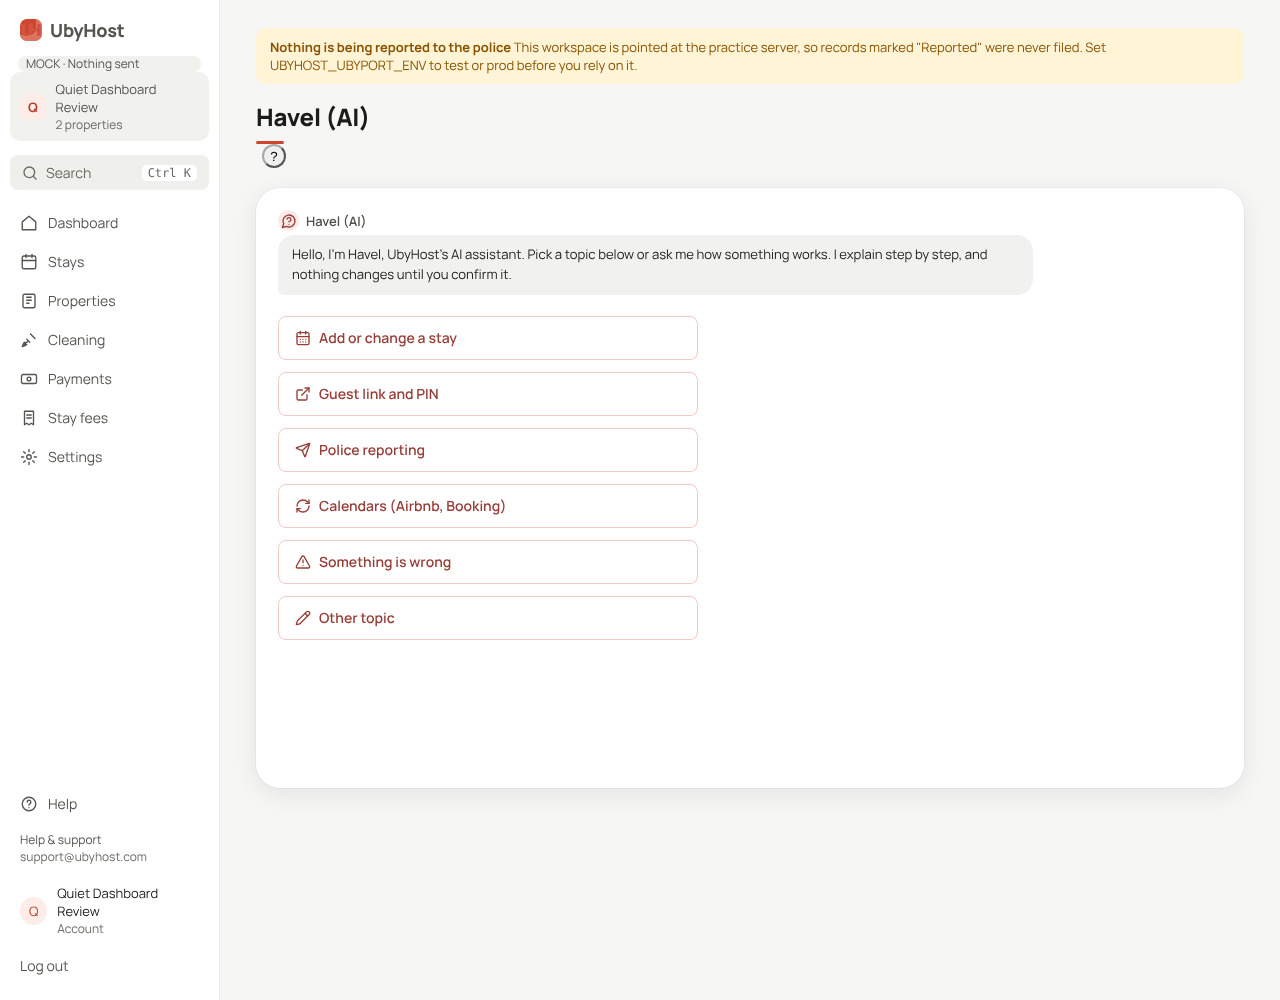
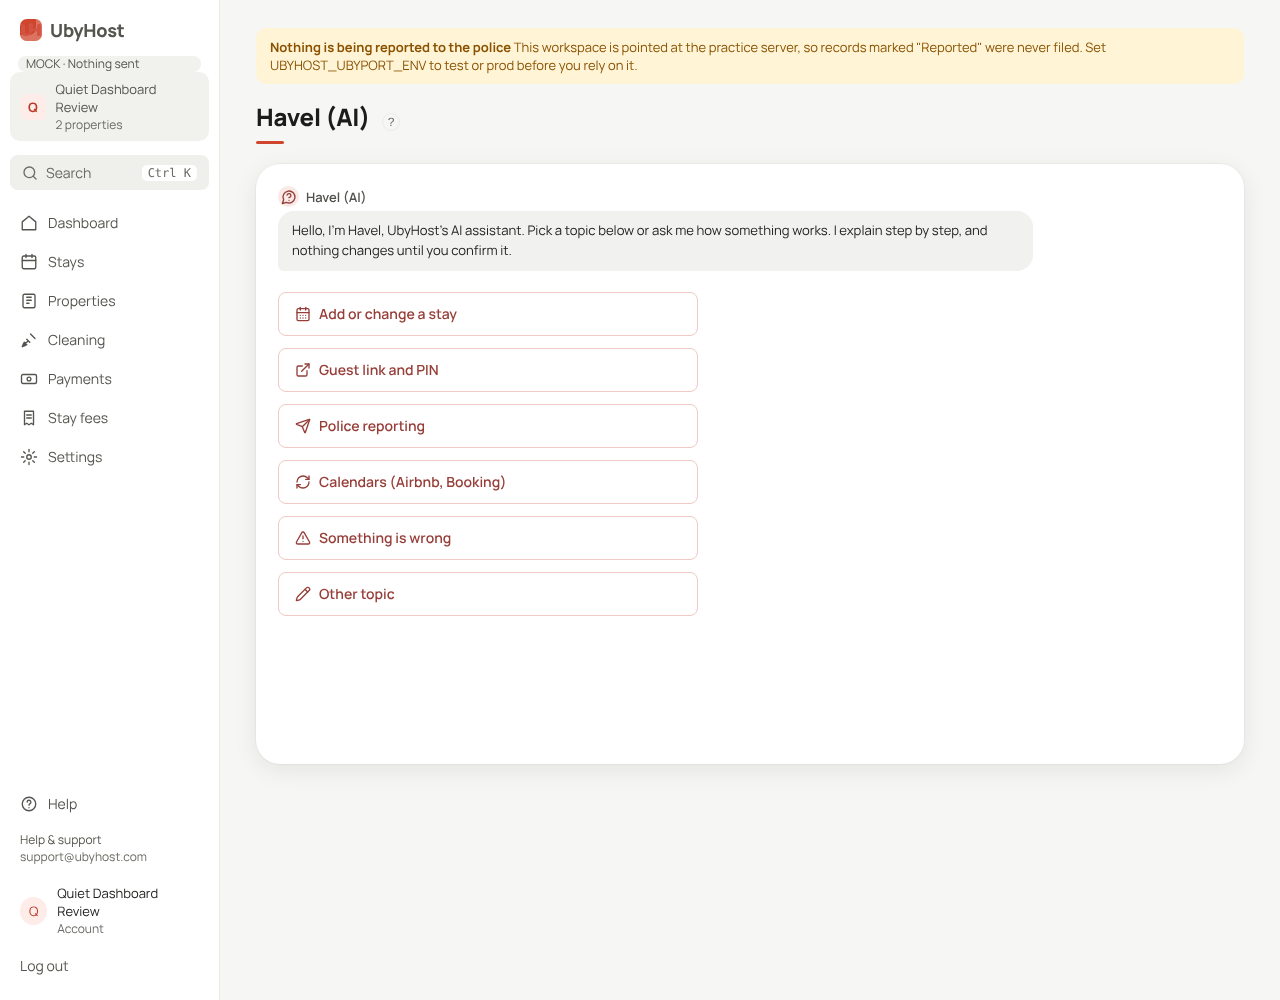
0829 guide.js via onPage and base.html; 0814 part 1 small help tip (WIP)
Claude-Session: https://claude.ai/code/session_01Cjmb7NdDTpZGab5h3XmCsd

Changed region(s): [[0.2188, 0.31, 0.4062, 0.62], [0.2188, 0.186, 0.75, 0.279]]

diff --git a/App/app/static/app2.css b/App/app/static/app2.css
@@ -1248,7 +1248,7 @@ body.v2 .prop-new .required-legend{font-size:13px;color:var(--ink3);margin:0 0 1
 body.v2 .prop-new .property-create-card,body.v2 .prop-new .property-create-next{background:var(--s);border:1px solid var(--line);border-radius:12px;padding:20px;margin:0 0 14px;box-shadow:none}
 body.v2 .prop-new .property-create-head{display:flex;align-items:center;gap:10px;margin:0 0 16px;color:var(--ink2)}
 body.v2 .prop-new .property-create-head h2{margin:0;font-size:16px;font-weight:700;color:var(--ink)}
-body.v2 .prop-new .heading-with-tip{display:flex;align-items:center;gap:8px}
+body.v2 .prop-new .heading-with-tip{display:flex;align-items:center;gap:6px}
 body.v2 .prop-new .property-create-operator-row{display:block}
 body.v2 .prop-new .property-create-manage{display:inline-block;margin-top:8px;font-size:13px}
 body.v2 .prop-new .grid{display:grid;gap:12px;grid-template-columns:minmax(0,1fr)}
@@ -1415,10 +1415,14 @@ body.v2 .page-skeleton:not([hidden]) ~ *, body.v2 main[aria-busy="true"] > .ui-p
 }
 @media (prefers-reduced-motion: reduce) { body.v2 .ui-bone { animation: none; } }
 /* 0812 help tip (v2) */
-body.v2 .help-tip{position:relative;display:inline-flex;align-items:center;vertical-align:middle;margin-left:6px}
-body.v2 .help-tip-btn{min-width:24px;min-height:24px;padding:0;border-radius:50%;display:inline-flex;align-items:center;justify-content:center;box-sizing:border-box}
-@media (max-width:1023px){body.v2 .help-tip-btn{min-width:44px;min-height:44px}}
-body.v2 .heading-with-tip,body.v2 .havel-name-tip{display:flex;align-items:center;gap:6px}
+body.v2 .help-tip{position:relative;display:inline-flex;flex:none;align-items:center;vertical-align:middle;margin-left:6px}
+body.v2 .help-tip-btn{position:relative;isolation:isolate;width:24px;height:24px;min-width:24px;min-height:24px;margin:-3px;padding:0;border:0;border-radius:50%;background:transparent;color:var(--ink3);font-size:12px;line-height:1;display:inline-flex;align-items:center;justify-content:center;box-sizing:border-box}
+body.v2 .help-tip-btn::after{content:"";position:absolute;z-index:-1;left:50%;top:50%;width:18px;height:18px;transform:translate(-50%,-50%);border:1px solid var(--line);border-radius:50%;box-sizing:border-box}
+@media (max-width:1023px){body.v2 .help-tip-btn{width:44px;height:44px;min-width:44px;min-height:44px;margin:-13px}}
+body.v2 .heading-with-tip,body.v2 .prop-name-tip,body.v2 .havel-name-tip{display:flex;flex-wrap:nowrap;align-items:center;gap:6px}
+body.v2 .heading-with-tip>:not(.help-tip),body.v2 .prop-name-tip>:not(.help-tip),body.v2 .havel-name-tip>:not(.help-tip){min-width:0}
+body.v2 .head>div:has(>.havel-name-tip){display:flex;flex-wrap:nowrap;align-items:center;gap:6px}
+body.v2 .head>div:has(>.havel-name-tip)>h1{min-width:0;margin:0}
 body.v2 .help-tip-body{display:none}
 body.v2 .help-tip.is-open>.help-tip-body,body.v2 .help-tip:not([data-js]):focus-within>.help-tip-body{display:block;position:absolute;z-index:70;left:0;top:100%;margin:6px 0 0;box-sizing:border-box;width:min(320px,calc(100vw - 32px));padding:10px 12px;background:var(--s);color:var(--ink);border:1px solid var(--line);border-radius:10px;box-shadow:0 6px 24px rgba(0,0,0,.12);font-size:13px;font-weight:400;line-height:1.45;text-align:left;white-space:normal}
 /* 0828 guide search (v2) */

diff --git a/App/app/static/guide.js b/App/app/static/guide.js
@@ -80,21 +80,21 @@
     });
   }
 
-  function boot() {
-    bindSearch();
-    openForHash();
+  // Same pattern as host.js: runs on every page view, Turbo swaps included.
+  // Off /guide there is no #guide-search, so it returns early.
+  function onPage(fn) {
+    if (window.UbyHost && window.UbyHost.onPage) window.UbyHost.onPage(fn); else fn();
   }
 
-  if (document.readyState === "loading") {
-    document.addEventListener("DOMContentLoaded", boot);
-  } else {
-    boot();
-  }
+  onPage(function () {
+    if (!document.getElementById("guide-search")) return;
+    bindSearch();
+    openForHash();
+  });
 
   if (!window.__guideListeners) {
     window.__guideListeners = true;
     window.addEventListener("hashchange", openForHash);
-    document.addEventListener("turbo:load", boot);
     document.addEventListener("click", function (event) {
       var link = event.target && event.target.closest
         ? event.target.closest('.guide-nav a[href^="#"]')

diff --git a/App/app/templates/base.html b/App/app/templates/base.html
@@ -40,6 +40,7 @@
   <script src="/static/skeleton.js?v=20261102-0508" defer data-turbo-track="reload"></script>
   <script src="/static/app.js?v=20261102-0510" defer data-turbo-track="reload"></script>
   {% if show_nav | default(true) %}<script src="/static/host.js?v=20261102-0507" defer data-turbo-track="reload"></script>{% endif %}
+  {% if show_nav | default(true) %}<script src="/static/guide.js?v=20261102-0829" defer data-turbo-track="reload"></script>{% endif %}
   {% if show_nav | default(true) %}<script src="/static/pwa.js?v=20261102-0511" defer data-turbo-track="reload"></script>{% endif %}
   {% if (show_nav | default(true)) and passkeys_enabled() %}<script src="/static/passkeys.js?v=20261102-0507" defer data-turbo-track="reload"></script>{% endif %}
   {% if show_nav | default(true) %}<script src="/static/shell.js?v=20261025-0373" defer data-turbo-track="reload"></script>{% endif %}

diff --git a/App/app/templates/guide.html b/App/app/templates/guide.html
@@ -340,5 +340,4 @@
     {% endif %}
   </div>
 </div>
-<script src="/static/guide.js?v=20261102-0828" defer></script>
 {% endblock %}

diff --git a/App/tests/test_0800_v2_remaining_pages_browser.py b/App/tests/test_0800_v2_remaining_pages_browser.py
@@ -164,6 +164,67 @@ def test_help_tip_sits_beside_its_label(name, width, base, dashboard_rich_host):
     assert not bad, f"{name} at {width} px: help tip not beside its label: {bad}"
 
 
+# 0814 c: every visible "?" in main is a small round icon (18 px circle drawn by ::after), on its label's line,
+# 6 px after the label text (at most 12 px). The tap target is the 24 px (desktop) or 44 px (phone) button box.
+_HELP_TIP_SIZE_JS = """() => {
+  const out = [];
+  const main = document.querySelector('main') || document.body;
+  for (const btn of main.querySelectorAll('.help-tip-btn')) {
+    const b = btn.getBoundingClientRect();
+    if (!b.width || !b.height) continue;
+    const tip = btn.closest('.help-tip');
+    const wrap = tip && tip.parentElement;
+    let ref = tip && tip.previousElementSibling;
+    if (!ref && wrap) ref = wrap.previousElementSibling || [...wrap.children].find(el => el !== tip) || null;
+    const label = ref ? ref.textContent.trim().slice(0, 40) : '(no label)';
+    const why = [];
+    const after = getComputedStyle(btn, '::after');
+    const cw = parseFloat(after.width), ch = parseFloat(after.height);
+    if (!(cw <= 20 && ch <= 20)) why.push(`visible circle ${cw}x${ch}`);
+    const cx = (b.left + b.right) / 2, cy = (b.top + b.bottom) / 2;
+    const left = cx - cw / 2;
+    if (!ref) {
+      why.push('no label before it');
+    } else {
+      const rg = document.createRange();
+      rg.selectNodeContents(ref);
+      const rects = [...rg.getClientRects()].filter(r => r.width > 0 && r.height > 0);
+      if (!rects.length) {
+        why.push('label has no text box');
+      } else {
+        const line = rects[rects.length - 1];
+        const right = line.right;
+        const dy = Math.abs(cy - (line.top + line.bottom) / 2);
+        const dx = left - right;
+        if (dy > 4) why.push(`vertical offset ${dy.toFixed(1)}px`);
+        if (dx < 0 || dx > 12) why.push(`gap after label ${dx.toFixed(1)}px`);
+      }
+    }
+    if (why.length) out.push({label, why: why.join('; ')});
+  }
+  return out;
+}"""
+HELP_TIP_SIZE_ROUTES = list(ROUTES)
+
+
+@pytest.mark.parametrize("name", HELP_TIP_SIZE_ROUTES)
+def test_help_tip_is_small_and_inline(name, base, dashboard_rich_host):
+    from app import auth
+
+    cookie = dashboard_rich_host["client"].cookies.get(auth.SESSION_COOKIE)
+    assert cookie
+    bad = []
+    with _launch_ctx() as playwright:
+        browser = _launch(playwright)
+        for width in WIDTHS:
+            context, page = _open_app(browser, base, cookie, _path({"path": ROUTES[name]}, dashboard_rich_host), width)
+            for finding in page.evaluate(_HELP_TIP_SIZE_JS):
+                bad.append(f"{name} at {width} px, label {finding['label']!r}: {finding['why']}")
+            context.close()
+        browser.close()
+    assert not bad, "\n".join(bad)
+
+
 # 0808 step b: the onboarding card's action group stays on one line per control and 16 px from the text.
 _ONBOARDING_GROUP_JS = """() => {
   const out = [];

diff --git a/App/tests/test_0828_guide_search_browser.py b/App/tests/test_0828_guide_search_browser.py
@@ -111,3 +111,31 @@ def test_guide_page_height_under_3000_on_load_at_1280(base, dashboard_rich_host)
         lambda p: p.evaluate("() => document.documentElement.scrollHeight"),
     )
     assert height < 3000, f"/guide is {height} px tall on load at 1280 px"
+
+
+def test_search_still_filters_after_turbo_swap_from_sidebar(base, dashboard_rich_host):
+    """0829: guide.js loads once in base.html and binds per page, so a Turbo visit to /guide works."""
+    from app import auth
+
+    cookie = dashboard_rich_host["client"].cookies.get(auth.SESSION_COOKIE)
+    assert cookie
+    with _launch_ctx() as playwright:
+        browser = _launch(playwright)
+        context = browser.new_context(viewport={"width": 1280, "height": 1000}, reduced_motion="reduce")
+        context.add_cookies([{"name": auth.SESSION_COOKIE, "value": cookie, "url": base + "/"}])
+        page = context.new_page()
+        try:
+            page.goto(f"{base}/havel")
+            page.wait_for_load_state("networkidle")
+            page.locator('a[href="/guide"]:visible').first.click()
+            page.wait_for_url("**/guide**")
+            page.wait_for_selector("#guide-search:not([hidden])")
+            page.fill("#guide-search", "PIN")
+            page.wait_for_timeout(300)
+            topics = page.evaluate(_TOPICS_JS)
+        finally:
+            context.close()
+            browser.close()
+    opened = [t["id"] for t in topics if t["open"]]
+    assert opened, "search typed after a Turbo visit to /guide opened no topic"
+    assert len(opened) < len(topics), "search after a Turbo visit did not filter the topics"

diff --git a/App/tests/test_guide_coverage.py b/App/tests/test_guide_coverage.py
@@ -28,7 +28,7 @@ def test_every_havel_guide_page_and_menu_link_has_an_anchor(host):
 
 def test_every_guide_section_is_known_to_havel(host):
     html = host.get("/guide").text
-    sections = re.findall(r'<section class="guide-section[^"]*" id="([^"]+)"', html)
+    sections = re.findall(r'<details class="guide-section[^"]*" id="([^"]+)"', html)
     assert len(sections) >= 20
     assert [s for s in sections if s != "demo" and s not in havel.GUIDE_ANCHORS] == []
 

diff --git a/docs/tasks/0829-report.md b/docs/tasks/0829-report.md
@@ -1,0 +1,31 @@
+# 0829 report: finish the /guide search
+
+Status: blocked (only by the guest-guide help-tip failures below, which belong to the other executor's help-tip work)
+
+Not committed, pushed or PR'd: the parent instruction said the orchestrator commits.
+
+## Changes
+- Step a: `App/app/templates/guide.html` removed the `guide.js` script tag. `App/app/templates/base.html` loads `/static/guide.js?v=20261102-0829` (defer, turbo-tracked) after host.js, under `show_nav`. `App/app/static/guide.js` now binds via `onPage` (same pattern as host.js), returns early without `#guide-search`, and the window hashchange and document click listeners stay behind the `__guideListeners` guard. The `turbo:load` listener was removed because `onPage` already reruns per page.
+- Step b: `App/tests/test_0828_guide_search_browser.py` added `test_search_still_filters_after_turbo_swap_from_sidebar`. It opens /havel, clicks the visible `/guide` link (Turbo swap), types "PIN" and checks the filter. Passes.
+- Step c: `App/tests/test_guide_coverage.py` regex now matches `<details class="guide-section ..." id=`.
+- Step d: no CSS change. The host /guide geometry cases in the 0800 test already pass at all widths, so the 0828 block was not touched. This is a deviation from the "probe then fix" wording.
+- Step e: no screenshots regenerated (see Deviations).
+
+## Commands (final tails)
+- `.venv/bin/python -m pytest tests/test_0828_guide_search_browser.py tests/test_guide_coverage.py tests/test_0507_page_hooks_browser.py -q --tb=line -p no:cacheprovider -rs` → `17 passed in 23.20s`
+- `.venv/bin/python -m pytest tests/test_0800_v2_remaining_pages_browser.py -k guide -q --tb=line -p no:cacheprovider -rs` → `6 failed, 16 passed, 84 deselected` (all 6 failures are `test_v2_remaining_page[guest-guide-*]` at 320/390/768/1024/1280/1440, each `tap target 18x18 (min 24): <button class="help-tip-btn"> "?"`). Host `guide` and the GUIDE_PADDING cases: `8 passed`.
+- Re-run of Turbo test alone: `1 passed in 3.63s`.
+- `.venv/bin/python tests/test_static_versions.py --write` → `refusing: app2.css changed but still has ?v=20261102-0812` (left for the orchestrator to bump, per brief).
+- repo root `python3 scripts/design_lint.py` → `design lint: OK`
+
+## Deviations
+- Step d: no CSS fix needed because the host /guide geometry tests pass.
+- Step e: screenshots not regenerated. Guide.html and base.html changed, so the owner or orchestrator should take one 390 px shot per changed page.
+
+## Questions
+- Guest-guide 0800 failures (help-tip tap target 18 px) are from the help-tip work, not this change. Confirm with the other executor before treating this as blocked.
+
+## Owner steps left
+- Bump the static key for app2.css (refused above) and then run `tests/test_static_versions.py --write`.
+- Once the help-tip executor makes `help-tip-btn` 24 px, rerun the 0800 guide command for 0 failed.
+- Commit and open the PR.

diff --git a/docs/tasks/0814-report.md b/docs/tasks/0814-report.md
@@ -1,0 +1,25 @@
+# 0814 report (executor, Haiku 5.5)
+
+Status: blocked (sections 1-9 partly done; section 10 not done)
+
+## Changed
+- `App/app/static/app2.css`: 0812 block rewritten (`.help-tip` inline-flex, flex none, margin-left 6px; `.help-tip-btn` 24x24 desktop / 44x44 below 1024 px with -3px / -13px margins, transparent, no border, visible 18 px circle from `::after` with z-index -1; wrappers `.heading-with-tip`, `.prop-name-tip`, `.havel-name-tip` flex nowrap gap 6px; `.head > div:has(> .havel-name-tip)` row rule). `.prop-new .heading-with-tip` gap 8px changed to 6px.
+- Step b: no other size rule in app2.css beats the new one. Kept `body.v2 details .help-tip-btn` (l.385), stay-detail (l.602/606) and details hide rule (l.944). host2.css:556 (`.host-workspace .help-tip-btn` 24px) has lower specificity, so it loses.
+- `App/tests/test_0800_v2_remaining_pages_browser.py`: new `test_help_tip_is_small_and_inline` (one test per ROUTES row, all WIDTHS): circle <= 20 px via `getComputedStyle(btn,'::after')`, centre within 4 px of the label line, gap after label 0 to 12 px. Test was not run against the pre-fix CSS (I edited CSS before running the test), so "fails on current state" is not confirmed.
+- Step d: no existing assertion required 44 px help buttons; old checks are bounding-box inside-viewport only. No change.
+
+## Commands (last lines)
+- `pytest test_0800... test_onboarding_wizard... test_property_create... -q`: 23 failed, 196 passed (before the havel and test-label fixes). Failing: test_v2_remaining_page[property-new-1024/1280/1440, havel-*], 10 of the new test cases, test_onboarding_wizard_browser::test_choice_card_selects_from_anywhere[390-False-en/cs/vi] (clicks card edge, `input[value=immediate]` not checked; not investigated, may predate this change).
+- `-k "help_tip_is_small or havel or property-new"`: 13 failed, 18 passed. Findings: 320 px labels wrap and the "?" sits on a new line (vertical offset 11-48 px) for "Where is your property?", "Import from Booking or Airbnb", "Cleaning date", "Create sharing link"; `havel` at 1024 px vertical offset 5.5 px; `property-new` gap 14 px at 320 px.
+- Screenshots: `UBYHOST_SHOTS_0800=1 ... -k "property-new-390 or havel-1280"`: 3 passed. Written: `docs/tasks/screenshots-0800/property-new-390.png`, `havel-1280.png`. Not viewed.
+- `python3 scripts/design_lint.py`: OK.
+
+## Deviations
+- Coordinator note changed the design to 24/44 px tap box with ::after circle; applied.
+- Test for the pre-fix state not run (see above).
+- Section 10 (h-k) not done: no time left under the 30-call cap.
+
+## Questions / owner steps
+- The 320 px wrapping labels need a layout decision beyond CSS (label + "?" wrap to their own line); stop per brief section 8.
+- The test file `tests/test_0800_v2_remaining_pages_browser.py` changed on disk during my run (someone else edited it); I edited on top of that version.
+- Not committed (per orchestrator).
